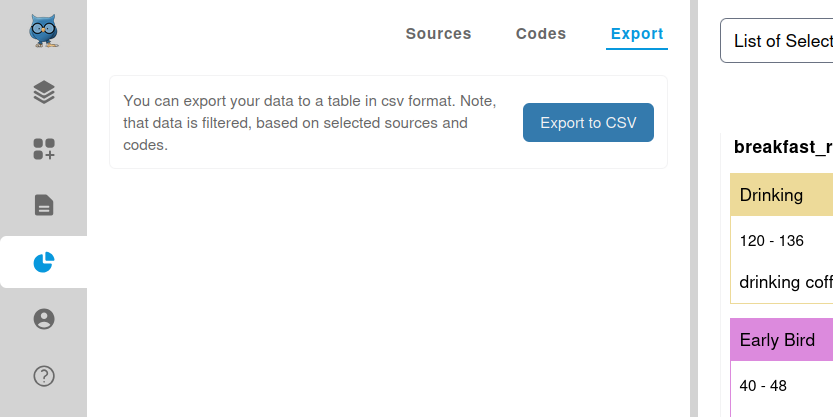
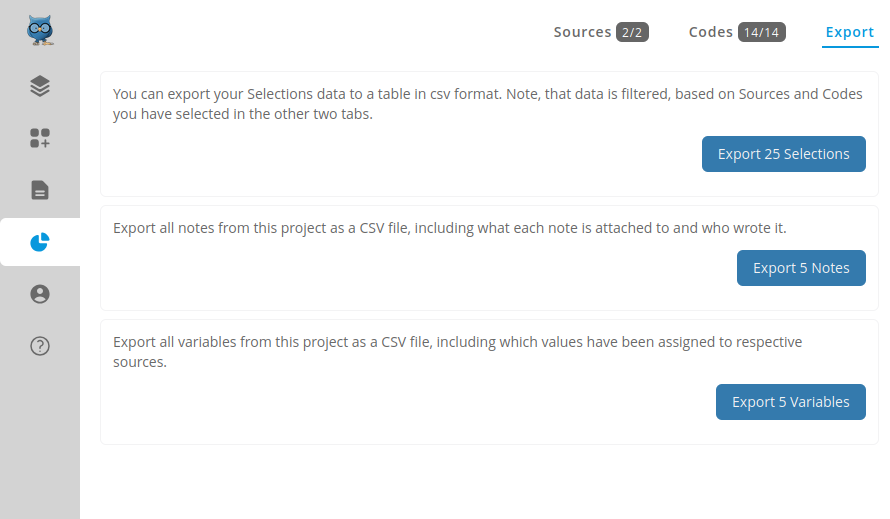
docs: update screenshots

diff --git a/docs/registration.md b/docs/registration.md
@@ -9,18 +9,23 @@ to create an account by clicking on "Create an account":
 
 ## Fill out the registration form
 Now fill out the register form with your name or pseudonym, your email and a secure password.
+
+::: tip
+While currently it is only required that your password consists of a minimum of eight characters, 
+we recommend using a password manager. 
+If you do not use a password manager, then we recommend a mix of letters, numbers and special characters.
+::: 
+ 
 You will have to confirm that you read and accept the terms of service and privacy policy.
-Optionally, you can [participate in research](./research.md) by accepting the research consent.
-Then confirm that you are not a robot (to your knowledge) and click the **Register** button.
+Optionally, you can [participate in our research](./research.md) by accepting the research consent.
+If you are unsure, you can still decide later within the app.
+
+You will also have to confirm that you are not a robot.
+For this check **we are not** sending any data to third parties, because the [human verification tool](https://altcha.org)
+is self-hosted on our servers.
 
 
 ![registration form](./public/img/register/form.png)
-> :bulb: **Tip:** While currently it is only required that your password consists of a minimum of eight characters, we recommend using a mix of letters, numbers and special characters.
-
-You might have noticed the "Checking if you are a human" section and wonder whether this
-is using a third-party tool with privacy implications.
-We are not sending data to third parties and the tool (https://altcha.org) is a self-hosted,
-privacy aware alternative to commercial tools.
 
 
 ## Verify your account
@@ -29,7 +34,14 @@ A verification email should have been sent to the email address you provided - p
 verify your email address and complete the registration process.
 Please also check the spam/junk folders to make sure you received the email in time.
 
+::: tip
+Check your spam or junk folders for any emails from OpenQDA.
+If you still haven't received any email, also make sure your email address was written correctly.
+:::
+
 ![verification via email](./public/img/register/verify.png)
 
 Now that you are verified, you can log into OpenQDA with your mail address and password and start using the software by
 either editing your profile or creating a new project for data analysis.
+
+

diff --git a/docs/profile.md b/docs/profile.md
@@ -42,8 +42,11 @@ sessions" button next to each session. You will remain logged in on the current 
 
 ## Delete your account
 
-> :alert: Danger zone! Deleting your account is permanent and will remove all your data from our servers.
-> This action cannot be undone. We cannot recover your account or any associated data once it has been deleted.
+
+::: danger
+Danger zone! Deleting your account is permanent and will remove all your data from our servers.
+This action cannot be undone. We cannot recover your account or any associated data once it has been deleted.
+:::
 
 You can delete your account by clicking the "Delete account" button at the bottom of the page.
 The delete button is disabled as long as there are teams you are the owner of with active members.

diff --git a/docs/projects/history.md b/docs/projects/history.md
@@ -1,9 +1,10 @@
 # History
 The History view provides you a full log of all actions within the project.
 
-> [!WARNING]
-> Right now not all actions are added to the history. Our long term goal
-> is to record every action to make your project fully auditable!
+::: info
+Right now not all actions are added to the history. Our long term goal
+is to record every action to make your project fully auditable!
+:::
 
 The list is ordered descending by date (newest entries at the top) and provides various filters
 to review actions before, after or between certain time intervals.

diff --git a/docs/workflow/coding/overview.md b/docs/workflow/coding/overview.md
@@ -61,3 +61,7 @@ indicating to which character range a coding will apply.
 #### 3. Notes Management
 
 The right panel also provides the Notes management for the **current** Source, which is described in more detail on the [notes management page](../preparation/notes.md).
+
+#### 4. Variables Management
+
+The right panel also provides the Variables management for the **current** Source, which is described in more detail on the [Variables management page](../preparation/variables.md).
